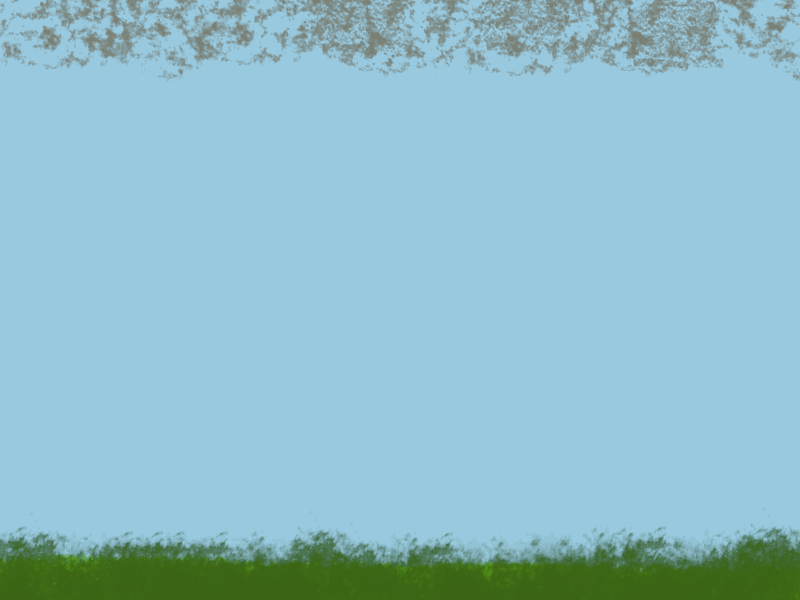
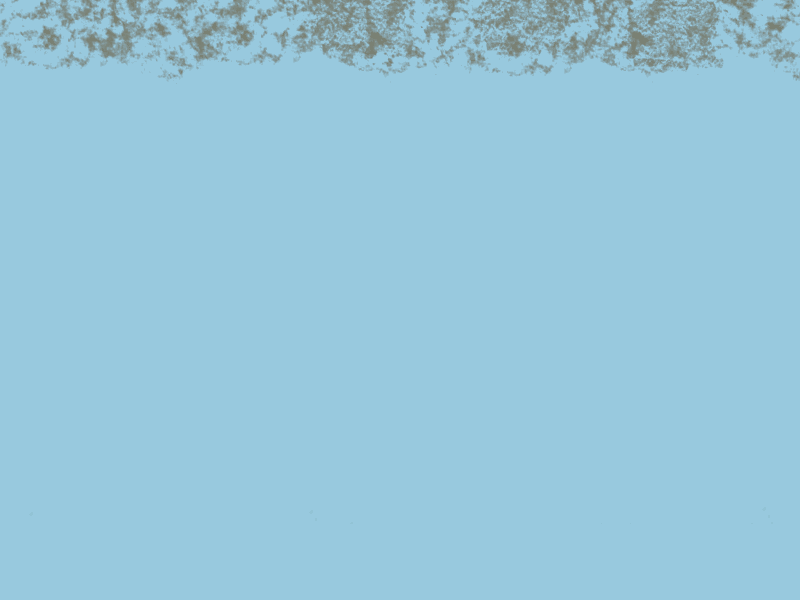
Better background & fort place

Changed region(s): [[0.0, 0.87, 1.0, 1.0]]

diff --git a/main.py b/main.py
@@ -51,6 +51,7 @@ towerPositions = [
 
 # Background: # 
 gameBackground = pygame.image.load('assets/Background.png').convert_alpha()
+gameGrass = pygame.image.load('assets/Grass.png').convert_alpha()
 
 # Fort: # 
 fortCannon = pygame.image.load('assets/Cannon.png').convert_alpha()
@@ -333,7 +334,7 @@ class Button():
 # Game Loop: #
 
 # Fort Creation: #
-fort = Fort(fortUndamaged, fortDamaged, fortHeavilyDamaged, 500, 235, 4)
+fort = Fort(fortUndamaged, fortDamaged, fortHeavilyDamaged, 500, 270, 4)
 
 # Game Crosshair: #
 crosshair = Crosshair(1.5)
@@ -361,10 +362,11 @@ while gameRunning:
         mPositions = pygame.mouse.get_pos()
         cRect = fortCannon.get_rect()
         cRect.x = 530
-        cRect.y = 320
-        angle = math.degrees(math.atan2(mPositions[1], mPositions[0]+1200))
+        cRect.y = 350
+        angle = math.degrees(math.atan2(mPositions[1], mPositions[0]+1200)) # Pff, quick fix
         gameCannon = pygame.transform.rotate(fortCannon, angle)
         gameWindow.blit(gameCannon, cRect)
+        gameWindow.blit(gameGrass, (0, 30))
         crosshair.drawCrosshair()
         showStats()
 
